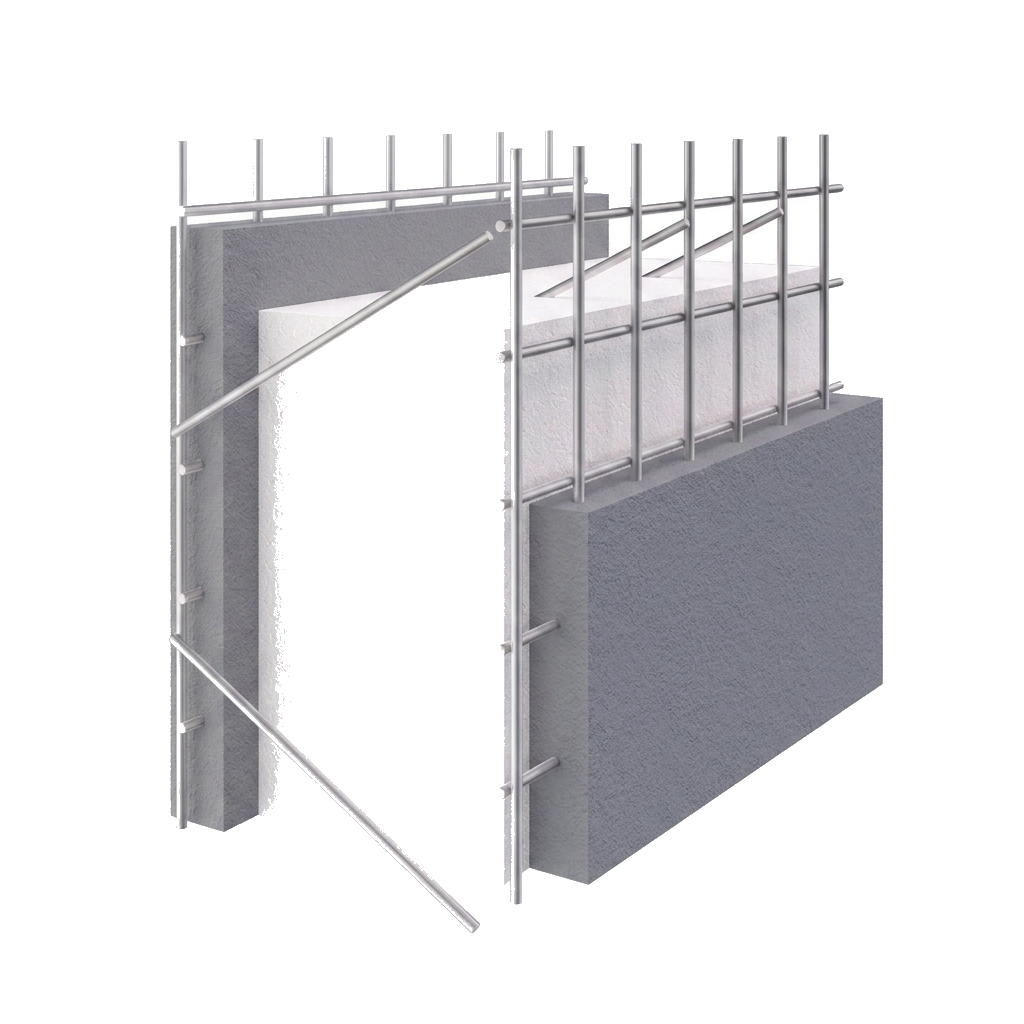
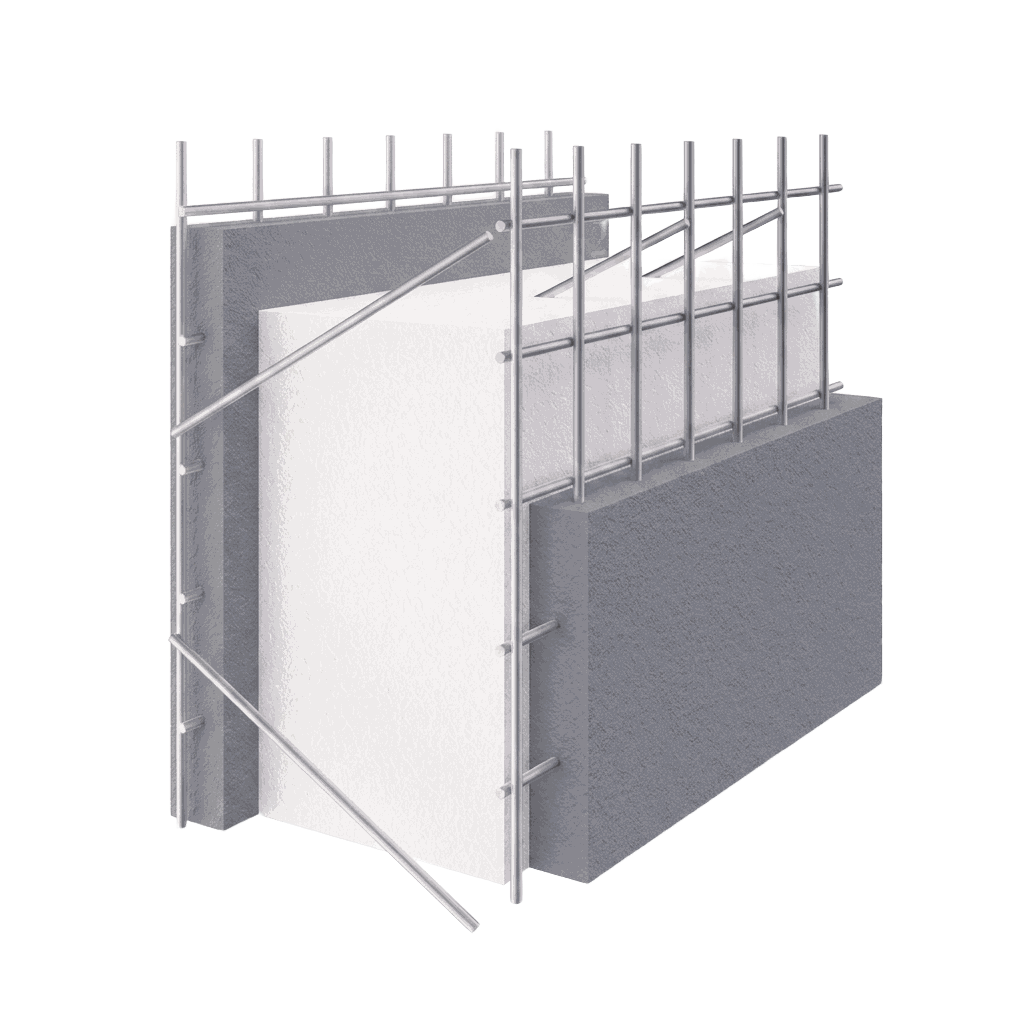
Технология: разрез стены на тёмном фоне вместо белого прямоугольника
LayeredSection переведён с tech-section-clean.png (белый фон + mix-blend-screen,
из-за чего белый фон «светился» прямоугольником на тёмной секции) на чистый
вырез с прозрачным фоном. Добавлены мягкое свечение и тень-опора под объектом
для объёма. Интерактивные точки не тронуты — геометрия рендера та же.

Прозрачный ассет перегенерирован (прежний по ошибке вырезал вместе с фоном
белый утеплитель — по центру была дыра). Новый вырез сохраняет все слои,
края чистые; PNG ужат до ~129 КБ.

Claude-Session: https://claude.ai/code/session_01WbHpauSBhvHDpqHFUgFMrn

Changed region(s): [[0.25, 0.375, 0.2812, 0.8125]]

diff --git a/src/components/LayeredSection.tsx b/src/components/LayeredSection.tsx
@@ -44,16 +44,21 @@ export function LayeredSection() {
   return (
     <div className="w-full">
       <div className="relative mx-auto aspect-square w-full max-w-[640px]">
-        {/* Subtle radial glow behind the image */}
+        {/* Мягкое золотистое свечение позади разреза — даёт объём на тёмном фоне */}
         <div
           aria-hidden
-          className="pointer-events-none absolute inset-[8%] rounded-full bg-accent/10 blur-3xl"
+          className="pointer-events-none absolute inset-[10%] rounded-full bg-accent/10 blur-3xl"
+        />
+        {/* Тень-«опора» под объектом, чтобы разрез не висел в пустоте */}
+        <div
+          aria-hidden
+          className="pointer-events-none absolute inset-x-[14%] bottom-[8%] h-8 rounded-[50%] bg-black/60 blur-2xl"
         />
 
         <img
-          src="/images/tech-section-clean.png"
+          src="/images/tech-section-clean-transparent.png"
           alt="Послойный разрез монолитного модуля EcoCub: бетон М400, оцинкованная сталь, ПСБ-С35"
-          className="relative h-full w-full object-contain mix-blend-screen"
+          className="relative h-full w-full object-contain drop-shadow-[0_22px_45px_rgba(0,0,0,0.55)]"
         />
 
         {/* Hotspots */}
